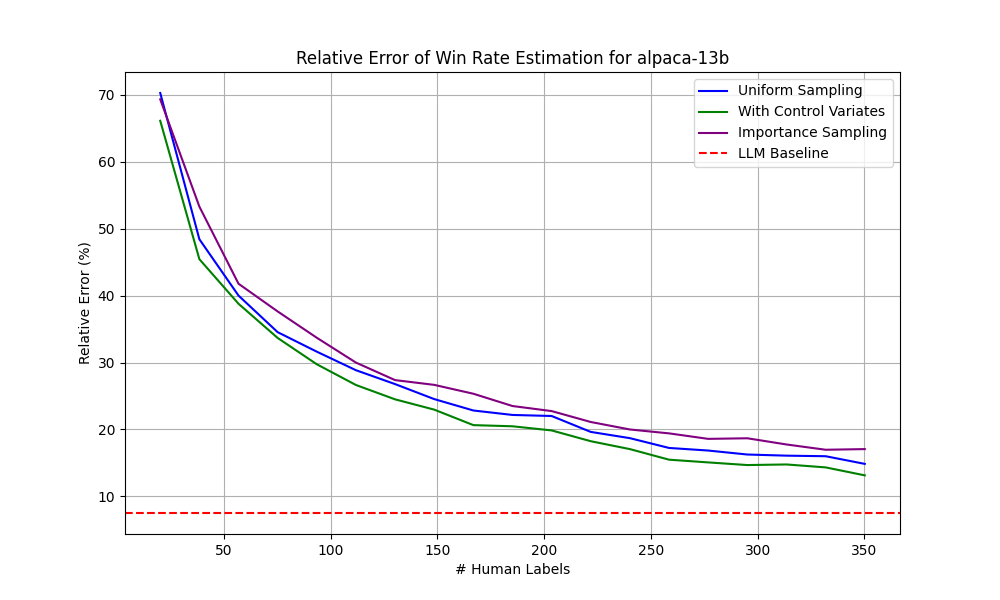
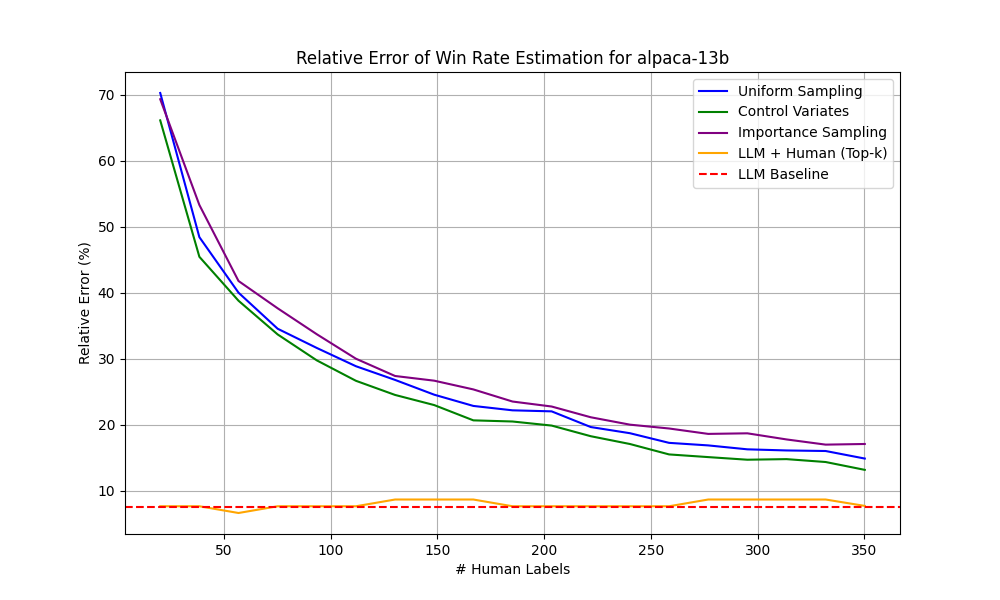
added llm + human to mt-bench

diff --git a/methods/mt_bench.py b/methods/mt_bench.py
@@ -14,13 +14,13 @@ def convert_to_binary_indicators(df, model_name):
     df = df.copy()
     model_rows = (df["model_a"] == model_name) | (df["model_b"] == model_name)
     df = df[model_rows]
-    
+
     binary_human = (((df["model_a"] == model_name) & (df["gold_label"] == "model_a")) |
-                    ((df["model_b"] == model_name) & (df["gold_label"] == "model_b"))).astype(float)
-    
+                    ((df["model_b"] == model_name) & (df["gold_label"] == "model_b")).astype(float))
+
     binary_gpt4 = (((df["model_a"] == model_name) & (df["gpt_label"] == "model_a")) |
-                   ((df["model_b"] == model_name) & (df["gpt_label"] == "model_b"))).astype(float)
-    
+                   ((df["model_b"] == model_name) & (df["gpt_label"] == "model_b")).astype(float))
+
     df["binary_human"] = binary_human
     df["binary_gpt4"] = binary_gpt4
     return df
@@ -33,10 +33,10 @@ def adjust_with_control_variates(df, sample_indices, tau):
     adjusted_estimate = sampled_df["binary_human"].mean() + c_star * (sampled_df["binary_gpt4"].mean() - tau)
     return adjusted_estimate
 
-def importance_sampling(df, model_name, sample_size, confidence_col="confidence_normalized"):
+def importance_sampling(df, model_name, sample_size, confidence_col="confidence"):
     model_df = convert_to_binary_indicators(df, model_name)
     weights = model_df[confidence_col] / model_df[confidence_col].sum()
-    
+
     sample_indices = np.random.choice(
         len(model_df), 
         size=min(sample_size, len(model_df)), 
@@ -46,9 +46,22 @@ def importance_sampling(df, model_name, sample_size, confidence_col="confidence_
     sampled_df = model_df.iloc[sample_indices]
     sampling_probs = weights.iloc[sample_indices].values
     importance_weights = 1.0 / (sampling_probs * len(model_df))
-    
+
     weighted_estimate = (sampled_df["binary_human"] * importance_weights).sum() / importance_weights.sum()
     return weighted_estimate
+
+def llm_human_hybrid_estimate(df, model_name, budget, confidence_col="confidence"):
+    model_df = convert_to_binary_indicators(df, model_name).copy()
+    
+    model_df = model_df.sort_values(by=confidence_col, ascending=False).reset_index(drop=True)
+    num_human = int(len(model_df) * budget)
+    alpha = model_df[confidence_col]
+    hybrid_labels = alpha * model_df["binary_gpt4"] + (1 - alpha) * model_df["binary_human"]
+    
+    hybrid_labels.iloc[:num_human] = model_df["binary_human"].iloc[:num_human].astype(float)
+
+    return hybrid_labels.mean()
+
 
 def run_sampling_analysis(df, model_name, sampling_rates, num_trials=1000):
     win_rate_human = compute_win_rate(df, model_name, "gold_label")
@@ -61,43 +74,48 @@ def run_sampling_analysis(df, model_name, sampling_rates, num_trials=1000):
     avg_relative_errors = []
     avg_relative_errors_control_variates = []
     avg_relative_errors_importance = []
-    
+    avg_relative_errors_llm_human = []
+
     for rate in sampling_rates:
         sample_size = int(rate * len(df))
         relative_errors = []
         relative_errors_control_variates = []
         relative_errors_importance = []
-        
+        relative_errors_llm_human = []
+
         for _ in range(num_trials):
             sample_indices = np.random.choice(len(df), size=sample_size, replace=False)
             sampled_df = df.iloc[sample_indices]
-            
-            # Uniform sampling
+
             uniform_win_rate = sampled_df["binary_human"].mean()
             relative_error = abs(uniform_win_rate - win_rate_human) / win_rate_human * 100
             relative_errors.append(relative_error)
-            
-            # Control variates
+
             adjusted_win_rate = adjust_with_control_variates(df, sample_indices, win_rate_llm)
             relative_error_cv = abs(adjusted_win_rate - win_rate_human) / win_rate_human * 100
             relative_errors_control_variates.append(relative_error_cv)
 
-            # Importance sampling
             importance_win_rate = importance_sampling(df, model_name, sample_size)
             relative_error_imp = abs(importance_win_rate - win_rate_human) / win_rate_human * 100
             relative_errors_importance.append(relative_error_imp)
-        
+
+            llm_human_est = llm_human_hybrid_estimate(df, model_name, budget=rate)
+            relative_error_llm_human = abs(llm_human_est - win_rate_human) / win_rate_human * 100
+            relative_errors_llm_human.append(relative_error_llm_human)
+
         avg_relative_errors.append(np.mean(relative_errors))
         avg_relative_errors_control_variates.append(np.mean(relative_errors_control_variates))
         avg_relative_errors_importance.append(np.mean(relative_errors_importance))
-    
+        avg_relative_errors_llm_human.append(np.mean(relative_errors_llm_human))
+
     return {
         'win_rate_human': win_rate_human,
         'win_rate_llm': win_rate_llm,
         'relative_error_llm': relative_error_llm,
         'avg_relative_errors': avg_relative_errors,
         'avg_relative_errors_cv': avg_relative_errors_control_variates,
-        'avg_relative_errors_importance': avg_relative_errors_importance
+        'avg_relative_errors_importance': avg_relative_errors_importance,
+        'avg_relative_errors_llm_human': avg_relative_errors_llm_human
     }
 
 def plot_and_save_results(results, sampling_rates, dataset_size, model_name):
@@ -105,10 +123,11 @@ def plot_and_save_results(results, sampling_rates, dataset_size, model_name):
 
     plt.figure(figsize=(10, 6))
     plt.plot(num_samples, results['avg_relative_errors'], '-', color='blue', label='Uniform Sampling')
-    plt.plot(num_samples, results['avg_relative_errors_cv'], '-', color='green', label='With Control Variates')
+    plt.plot(num_samples, results['avg_relative_errors_cv'], '-', color='green', label='Control Variates')
     plt.plot(num_samples, results['avg_relative_errors_importance'], '-', color='purple', label='Importance Sampling')
+    plt.plot(num_samples, results['avg_relative_errors_llm_human'], '-', color='orange', label='LLM + Human (Top-k)')
     plt.axhline(y=results['relative_error_llm'], color='red', linestyle='--', label='LLM Baseline')
-    
+
     plt.xlabel("# Human Labels")
     plt.ylabel("Relative Error (%)")
     plt.legend()
@@ -120,7 +139,6 @@ def plot_and_save_results(results, sampling_rates, dataset_size, model_name):
 def save_results_to_csv(results, sampling_rates, dataset_size, model_name):
     num_samples = (sampling_rates * dataset_size).astype(int)
 
-    # Uniform Sampling
     df_uniform = pd.DataFrame({
         "model_name": [model_name] * len(num_samples),
         "num_samples": num_samples,
@@ -128,7 +146,6 @@ def save_results_to_csv(results, sampling_rates, dataset_size, model_name):
     })
     df_uniform.to_csv(os.path.join("../results/uniform_sampling/mt-bench", f"{model_name}_uniform_sampling.csv"), index=False)
 
-    # Control Variates
     df_cv = pd.DataFrame({
         "model_name": [model_name] * len(num_samples),
         "num_samples": num_samples,
@@ -136,13 +153,19 @@ def save_results_to_csv(results, sampling_rates, dataset_size, model_name):
     })
     df_cv.to_csv(os.path.join("../results/control_variate/mt-bench", f"{model_name}_control_variates.csv"), index=False)
 
-    # Importance Sampling
     df_importance = pd.DataFrame({
         "model_name": [model_name] * len(num_samples),
         "num_samples": num_samples,
         "relative_error": results['avg_relative_errors_importance']
     })
     df_importance.to_csv(os.path.join("../results/importance_sampling/mt-bench", f"{model_name}_importance_sampling.csv"), index=False)
+
+    df_llm_human = pd.DataFrame({
+        "model_name": [model_name] * len(num_samples),
+        "num_samples": num_samples,
+        "relative_error": results['avg_relative_errors_llm_human']
+    })
+    df_llm_human.to_csv(os.path.join("../results/llm_human/mt-bench", f"{model_name}_llm_human.csv"), index=False)
 
 def analyze_model(model_name, df, num_trials=1000):
     sampling_rates = np.linspace(0.001, 0.2, 20)[1:]
@@ -155,17 +178,13 @@ def analyze_model(model_name, df, num_trials=1000):
 
     plot_and_save_results(results, sampling_rates, len(df), model_name)
     save_results_to_csv(results, sampling_rates, len(df), model_name)
-    
+
     return results
 
 def main():
-    # Suppress common warnings
     warnings.filterwarnings("ignore", category=RuntimeWarning)
-    
-    # Load data
     judge_df = pd.read_csv("../datasets/mt-bench/mt-bench.csv")
 
-    # List of models
     models = [
         "gpt-3.5-turbo",
         "claude-v1",
